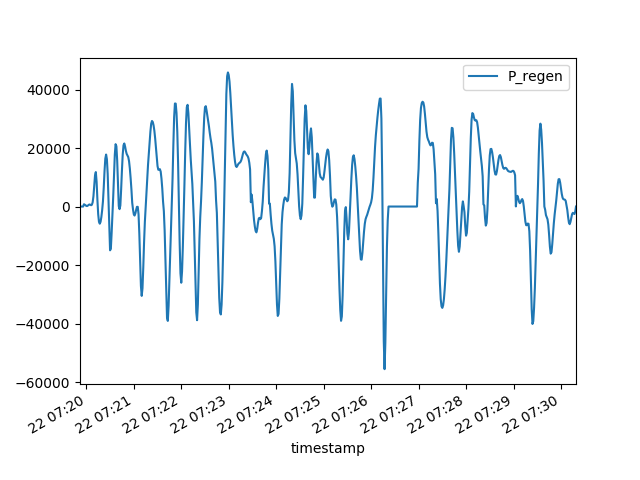
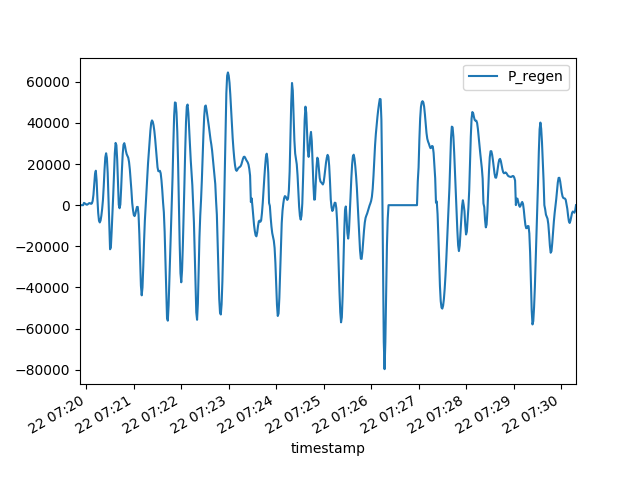
Created EV_menu

diff --git a/EV_data_analysis.py b/EV_data_analysis.py
@@ -23,7 +23,25 @@ def load_csv_data(file_name, subdir=''):
 
     return df
 
-def calculate_energy_consumption(data):
+def EV_menu():
+    """
+    Menu for selection of EV to be used in system
+
+    :param data: -
+    :return: dataframe containing parameters for selected EV
+    """
+
+    file = 'EV_characteristics.csv'
+    EV_selection = load_csv_data(file)
+
+    print('****** EV SELECTION MENU ******')
+    print(EV_selection['vehicle_model'])
+    choice = input("""Please key in the number corresponding to the vehicle model : """)
+    EV = EV_selection.iloc[int(choice)]
+
+    return EV
+
+def calculate_energy_consumption(data, EV):
     """
     Calculates the energy consumption trend and plots it against time
 
@@ -32,18 +50,18 @@ def calculate_energy_consumption(data):
              power at wheels in W and power at electric motor in W
     """
 
-    m = 1521 # mass (kg)
+    m = EV['m_kg'] # mass (kg)
     g = 9.8066 # gravity (m/s)
     theta = 0 # road grade
 
     #rolling resistance parameters
-    C_r = 1.75
-    c_1 = 0.0328
-    c_2 = 4.575
+    C_r = EV['C_r']
+    c_1 = EV['c_1']
+    c_2 = EV['c_2']
 
-    rho_air = 1.2256 # air mass density (kg/m3)
-    A_f = 2.3316 # frontal area of the vehicle (m2)
-    C_D = 0.28 # aerodynamic drag coefficient of the vehicle
+    rho_air = EV['rho_air'] # air mass density (kg/m3)
+    A_f = EV['A_f'] # frontal area of the vehicle (m2)
+    C_D = EV['C_D'] # aerodynamic drag coefficient of the vehicle
 
     mph_to_mps = 0.44704
 
@@ -56,8 +74,8 @@ def calculate_energy_consumption(data):
                        + 0.5 * rho_air * A_f * C_D * (data['speed_mps']**2) \
                        + m * g * np.sin(theta)) * data['speed_mps']
 
-    n_driveline = 0.92 # driveline efficiency
-    n_electric_motor = 0.91 # electric motor efficiency (85%-95% for Nissan Leaf)
+    n_driveline = EV['n_driveline'] # driveline efficiency
+    n_electric_motor = EV['n_electric_motor'] # electric motor efficiency (85%-95% for Nissan Leaf)
 
     # Power at electric motor 
     data['P_electric_motor'] = data['P_wheels'] / (n_driveline * n_electric_motor)
@@ -106,13 +124,15 @@ def graph_plotter(data, x='timestamp', y='P_regen', file_name='energy_consumptio
         plt.savefig(name)
 
 
+EV_chosen = EV_menu()
+
 file = '2012-05-22.csv'
 subdir = '1035198_1'
 data = load_csv_data(file, subdir)
 
 data['timestamp'] = pd.to_datetime(data['timestamp'], format='%Y-%m-%d %H:%M:%S')
 
-sliced_data = calculate_energy_consumption(data.loc[1:593])
+sliced_data = calculate_energy_consumption(data.loc[1:593], EV_chosen)
 
 regen_sliced_data = regen_braking(sliced_data)
 
